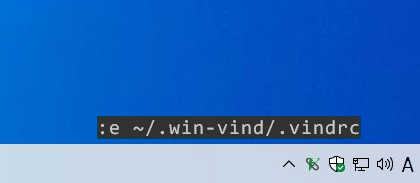
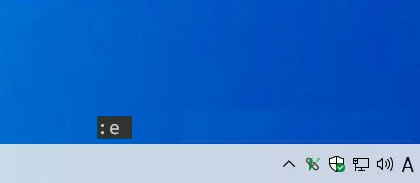
update document for v4.3.0

Changed region(s): [[0.3095, 0.6284, 0.8667, 0.765]]

diff --git a/docs/ja/usage/index.md b/docs/ja/usage/index.md
@@ -7,7 +7,7 @@ icon: map-signs
 translation: ja
 translators:
   - pit-ray
-version: 4.2.1
+version: 4.3.0
 disable_anchors: true
 ---
 
@@ -90,9 +90,9 @@ disable_anchors: true
 |`set {option}`|オプションの値を**true**にします。|
 |`set no{option}`|オプションの値を**false**にします。|
 |`set {option} = {val}`|オプションのパラメータを設定します。値には文字列か浮動小数点を含む数値です。文字列には引用符は不要で、空白以外の文字以降が値として扱われます。ちなみに等号の両端の空白は無視されます。|
-|`{mode}map {in-key} {out-key}`|低レベルなkey2keyマッピングを行います。定義された低レベルマップは、win-vindだけでなく、Windows全体に影響を与えます。|
+|`{mode}map {in-key} {out-key}`|低レベルなcmd2cmdマッピングを行います。定義された低レベルマップは、実際にWindowsにキーストロークとして伝わります。key2keyset形式に限り、遅延なしにキーの状態を同期することができます。|
 |`{mode}noremap {in-cmd} {func-id}`|ファンクションを呼び出すためのマッピングを定義します。|
-|`{mode}noremap {in-keyset} {out-keyset}`|win-vindのスコープでkeyset2keysetのマッピングを行います。ただし、`{func-id}`を利用した構文のほうが優先度が高いため、正確には1段階の再帰的なマッピングが生じる可能性があります。|
+|`{mode}noremap {in-keyset} {out-keyset}`|win-vindのスコープでcmd2cmdのマッピングを行います。ただし、`{func-id}`を利用した構文のほうが優先度が高いため、正確には1段階の再帰的なマッピングが生じる可能性があります。|
 |`{mode}unmap {in-cmd}`|`{in-cmd}`に割り当てられたマップを削除します。|
 |`{mode}mapclear`|すべてのマップを削除します。|
 |`command {in-cmd} {func-id}`|ファンクションを呼び出すためのコマンドを定義します。`{in-cmd}`に`:`は不要です。|
@@ -111,7 +111,7 @@ disable_anchors: true
    <img src="{{ site.url }}/imgs/instant_gui_normal_mode.jpg" width=450 >  
    <p align="center">Instant GUI Normal Demo</p>
    </p>
-1. `:e ~/.win-vind/.vindrc`で`.vindrc`を開きます。
+1. `:e`で`.vindrc`を開きます。
    <p align="center">
    <img src="{{ site.url }}/imgs/edit_vindrc_demo.jpg" width=450 >  
    <p align="center">:e Demo</p>
@@ -121,13 +121,16 @@ disable_anchors: true
    set cmd_fontname = Times New Roman
    imap <Capslock> <ctrl>
    inoremap <Alt> easy_click_left
+   imap <ctrl-a> Vim is the best editor.
+   gnnoremap <ctrl-1> :!notepad<cr>
    ```
 1. 次のように`:source`コマンドを実行すると`.vindrc`が読み込まれます。引数は不要です。
    <p align="center">
    <img src="{{ site.url }}/imgs/source_demo.jpg" width=450 >  
    <p align="center">:source Demo</p>
    </p>
-1. **Insertモード**では、Ctrlの代わりにCapslockを利用でき、Altキー一つで**EasyClick**を起動できるようになります。
+1. **Insertモード**では、Ctrlの代わりにCapslockを利用でき、Altキー一つで**EasyClick**を起動できるようになります。また、CtrlとAを同時に押すと、定型文を挿入できます。**GUI Normal**モードでは、Ctrlと1を同時に押すと、メモ帳が開くようになります。
+
 
 <br>
 <br>

diff --git a/docs/usage/index.md b/docs/usage/index.md
@@ -89,9 +89,9 @@ The following commands are supported. By the way, `{` and `}` themselves are not
 |`set {option}`|Set the value of the option to **true**.|
 |`set no{option}`|Set the value of the option to **false**.|
 |`set {option} = {val}`|Set a value of the option. The value can be a string or a number that allows floating points. The string does not need quotation marks, and any character after the non-white character will be handled as the value. White spaces at both ends of the equals sign are ignored.|
-|`{mode}map {in-key} {out-key}`|It performs **key2key** mapping with low-level. The keymap influences Windows as a whole, not just the win-vind scope.|
+|`{mode}map {in-key} {out-key}`|It performs **cmd2cmd** mapping with low-level. The defined low-level map is actually propagated to Windows as keystroke. By the way, only the key2keyset format can synchronize the key state without delay.|
 |`{mode}noremap {in-cmd} {func-id}`|It defines the map to call the function.|
-|`{mode}noremap {in-keyset} {out-keyset}`|It performs **keyset2keyset** mapping in win-vind scope. However, since the `{func-id}` definition has higher priority than its syntax, it may result in exactly one level of recursive mapping.|
+|`{mode}noremap {in-keyset} {out-keyset}`|It performs **cmd2cmd** mapping in win-vind scope. However, since the `{func-id}` definition has higher priority than its syntax, it may result in exactly one level of recursive mapping.|
 |`{mode}unmap {in-cmd}`|Remove the map corresponding to the `{in-cmd}`.|
 |`{mode}mapclear`|Delete all maps.|
 |`command {in-cmd} {func-id}`|It defines the command to call the function.|
@@ -110,7 +110,7 @@ Let's do the last tutorial!
    <img src="{{ site.url }}/imgs/instant_gui_normal_mode.jpg" width=450 >  
    <p align="center">Instant GUI Normal Demo</p>
    </p>
-1. Open your `.vindrc` with `:e ~/.win-vind/.vindrc`.  
+1. Open your `.vindrc` with `:e`.
    <p align="center">
    <img src="{{ site.url }}/imgs/edit_vindrc_demo.jpg" width=450 >  
    <p align="center">Edit .vindrc Demo</p>
@@ -120,13 +120,15 @@ Let's do the last tutorial!
    set cmd_fontname = Times New Roman
    imap <Capslock> <ctrl>
    inoremap <Alt> easy_click_left
+   imap <ctrl-a> Vim is the best editor.
+   gnnoremap <ctrl-1> :!notepad<cr>
    ```
 1. If you done, try reloading `.vindrc` with `:source` of win-vind. (No arguments are needed.)
    <p align="center">
    <img src="{{ site.url }}/imgs/source_demo.jpg" width=450 >  
    <p align="center">Reload Demo</p>
    </p>
-1. In **Insert Mode**, you can use `<Capslock>` instead of `<Ctrl>` and call EasyClick with a single `<Alt>`.
+1. In **Insert Mode**, you can use `<Capslock>` instead of `<Ctrl>` and call EasyClick with a single `<Alt>`. And, you can insert a fixed form text with pressing Ctrl and A at the same time. **In GUI Normal Mode**, pressing Ctrl and 1 at the same time will open Notepad.
 
 <br>
 <br>

diff --git a/docs/ja/cheat_sheet/functions/index.md b/docs/ja/cheat_sheet/functions/index.md
@@ -7,7 +7,7 @@ disable_anchors: true
 translation: ja
 translators:
   - pit-ray
-version: 4.2.1
+version: 4.3.0
 ---
 
 ### モード
@@ -136,13 +136,13 @@ version: 4.2.1
 
 |ID|機能|
 |:---:|:---|
-|**makedir**|`:mkdir foo`のように相対パスで呼び出すと、選択しているエクスプローラのディレクトリに`foo`ディレクトリを作成します。エクスプローラが見つからない場合には、`~/Desktop/foo`に作成されます。また、`:mkdir C:/Users/You/Desktop/bar`のように絶対パスで呼び出すと、パスに沿ってディレクトリが作成されますが、再帰的には生成されません。|
+|**makedir**|`:mkdir foo`のように相対パスで呼び出すと、選択しているエクスプローラのディレクトリに`foo`ディレクトリを作成します。エクスプローラが見つからない場合には、`~/Desktop/foo`に作成されます。また、`:mkdir C:/Users/You/Desktop/bar`のように絶対パスで呼び出すと、パスに沿ってディレクトリが再帰的に作成されます。|
 
 ### プロセス
 
 |ID|機能|
 |:---:|:---|
-|**execute**|関連付けられたアプリケーションでファイルを開きます。これは、有名なWindows APIである**ShellExecute**のラッパで、エクスプローラでダブルクリックしたのと同じふるまいをします。そのため、任意の形式ののファイルやURLを開くことができます。例えば、`:e ~/.vimrc`や`:e https://www.google.com`などのように使います。|
+|**execute**|関連付けられたアプリケーションでファイルを開きます。これは、有名なWindows APIである**ShellExecute**のラッパで、エクスプローラでダブルクリックしたのと同じふるまいをします。そのため、任意の形式ののファイルやURLを開くことができます。例えば、`:e ~/.vimrc`や`:e https://www.google.com`などのように使います。引数が与えられなかった場合には、初期化時に読み込んだ.vindrcを開きます。|
 |**exit_config_gui**|win-vindを終了する|
 |**start_external**|外部アプリケーションを起動します。環境変数は、`shell`オプションで指定したアプリケーションに依存します。最後に`;`をつけることで、コンソールウィンドウをすぐに閉じないようにします。エクスプローラのウィンドウを選択している場合には、そのディレクトリが現在ディレクトリになります。|
 |**start_shell**|ターミナルを起動します。エクスプローラのウィンドウを選択している場合には、そのディレクトリが現在ディレクトリになります。|

diff --git a/src/README.md b/src/README.md
@@ -7,7 +7,9 @@ This document describes the high-layer architecture of win-vind.
 
 <img src="docs/image/keymatch_overview.png">
 
-win-vind hocks the function to capture input messages at low-level events on the operating system. This function is managed by KeyAbsorber. It switches between absorbing a key message and passing it on to other applications.  
+win-vind hocks a function that captures messages for low-level key events on the OS. To mediate input and output between the OS and win-vind, The singleton InputGate is in charge of this. cmd2cmd mapping by noremap or map is reflected in the key state record provided by InputGate.
+
+<img src="docs/image/inputgate_overview.png" >
 
 The captured inputs are converted into a convenient sequence of keycodes by KeyLogger. Currently, CharLogger and NTypeLogger are typical key loggers. CharLogger logs like general textual inputs, while NTypeLogger parses head numbers (e.g. `2gg`, `3h`) and logs raw keycodes by its automaton.  
 
@@ -31,9 +33,7 @@ By the way, the state transition diagrams of the automaton described here are as
 # Data Formats and its Managers
 ## FuncFinder
 
-<img src="docs/image/func_finder.png" >
-
-FuncFinder is used to select a function that matches the key sequence of the keylogger.  It has an internal array of modes, each of which holds pointers to the LoggerParser of valid functions.  Since LoggerParser is an automaton as described above, it transitions the state of all LoggerParser in the current mode when matching.
+FuncFinder is used to select a function that matches the key sequence of the keylogger.  It has an internal array of modes, each of which holds pointers to the LoggerParser of valid functions.  
 
 And the mode array in FuncFinder is reconstructed each time the settings are loaded for example by Apply button.
 
@@ -98,11 +98,6 @@ namespace vind
 #### CommandList  
 
 <img src="docs/image/parse_overview.png">  
-
-CommandList is keycode arrays generated from the settings file.  It is generated for each mode of the function, but is shared among modes in a syntax like `"edin": ["<guin>"]` .  
-
-<img src="docs/image/global_parsed_bindings_lists.png">
-
 
 
 # Authors

diff --git a/docs/cheat_sheet/functions/index.md b/docs/cheat_sheet/functions/index.md
@@ -132,13 +132,13 @@ disable_anchors: true
 
 |ID|Feature|
 |:---:|:---|
-|**makedir**|Create a directory. If you call it with a relative path such as `:mkdir foo`, it creates it in the explorer directory. If no explorer is found, it creates it in `~/Desktop/foo`. If you call it with an absolute path like `:mkdir C:/Users/You/Desktop/bar`, it will create a directory along the path, but not recursively.|
+|**makedir**|Create a directory. If you call it with a relative path such as `:mkdir foo`, it creates it in the explorer directory. If no explorer is found, it creates it in `~/Desktop/foo`. If you call it with an absolute path like `:mkdir C:/Users/You/Desktop/bar`, it will create a directory along the path recursively.|
 
 ### Process
 
 |ID|Feature|
 |:---:|:---|
-|**execute**|Open file with the associated application. This is a wrapper for the famous Windows API, **ShellExecute**, which behaves the same as double-clicking in Explorer. Therefore, you can open any format files and URLs. For example, `:e ~/.vimrc` or `:e https://www.google.com`.|
+|**execute**|Open file with the associated application. This is a wrapper for the famous Windows API, **ShellExecute**, which behaves the same as double-clicking in Explorer. Therefore, you can open any format files and URLs. For example, `:e ~/.vimrc` or `:e https://www.google.com`. If there is no argument, it will open .vindrc loaded at initialization.|
 |**exit_config_gui**|Exit win-vind|
 |**start_external**|Start an external application. This environment variable is dependent on the application specified in the `shell` option. By appending `;` at the end, it keeps the console window without closing immediately. If the explorer is the foreground window, the current directory of a terminal will be that directory.|
 |**start_shell**|Start a terminal. If the explorer is the foreground window, the current directory of a terminal will be that directory.|

diff --git a/docs/ja/cheat_sheet/options/index.md b/docs/ja/cheat_sheet/options/index.md
@@ -6,7 +6,7 @@ disable_anchors: true
 translation: ja
 translators:
   - pit-ray
-version: 4.2.1
+version: 4.3.0
 show_in_menu: false
 ---
 
@@ -32,7 +32,7 @@ show_in_menu: false
 |`cmd_maxhist`|num|10|仮想コマンドラインで保持する履歴の最大数。|
 |`cmd_roughpos`|str|LowerMid|仮想コマンドラインの大まかな位置。`UpperLeft`, `UpperMid`, `UpperRight`, `MidLeft`, `Center`, `MidRight`, `LowerLeft`, `LowerMid`, `LowerRight`のうちのどれかを指定してください。|
 |`cmd_xmargin`|num|32|`cmd_roughpos`で大まかな位置を決め、ピクセル単位で水平方向の微調整を行います。|
-|`cmd_ymargin`|num|64|`cmd_roughpos`で大まかな位置を決め、ピクセル単位で垂直方向の微調整を行います。|
+|`cmd_ymargin`|num|96|`cmd_roughpos`で大まかな位置を決め、ピクセル単位で垂直方向の微調整を行います。|
 |`cursor_accel`|num|95|マウスカーソルの等加速度運動におけるピクセルレベルの加速度。|
 |`cursor_maxv`|num|12|マウスカーソルの最大速度。|
 |`cursor_tweight`|num|250|マウスカーソルの等加速度運動における時間のスケーリング値。|

diff --git a/README.md b/README.md
@@ -65,12 +65,12 @@ $ winget install win-vind
 ```
 
 ### Installer Version
-- [win-vind_4.2.1_32bit_installer.zip](https://github.com/pit-ray/win-vind/releases/download/v4.2.1/win-vind_4.2.1_32bit_installer.zip)
-- [win-vind_4.2.1_64bit_installer.zip](https://github.com/pit-ray/win-vind/releases/download/v4.2.1/win-vind_4.2.1_64bit_installer.zip)
+- [win-vind_4.3.0_32bit_installer.zip](https://github.com/pit-ray/win-vind/releases/download/v4.3.0/win-vind_4.3.0_32bit_installer.zip)
+- [win-vind_4.3.0_64bit_installer.zip](https://github.com/pit-ray/win-vind/releases/download/v4.3.0/win-vind_4.3.0_64bit_installer.zip)
 
 ### Portable Version
-- [win-vind_4.2.1_32bit_portable.zip](https://github.com/pit-ray/win-vind/releases/download/v4.2.1/win-vind_4.2.1_32bit_portable.zip)
-- [win-vind_4.2.1_64bit_portable.zip](https://github.com/pit-ray/win-vind/releases/download/v4.2.1/win-vind_4.2.1_64bit_portable.zip)
+- [win-vind_4.3.0_32bit_portable.zip](https://github.com/pit-ray/win-vind/releases/download/v4.3.0/win-vind_4.3.0_32bit_portable.zip)
+- [win-vind_4.3.0_64bit_portable.zip](https://github.com/pit-ray/win-vind/releases/download/v4.3.0/win-vind_4.3.0_64bit_portable.zip)
 
 
 ## Usage

diff --git a/docs/cheat_sheet/options/index.md b/docs/cheat_sheet/options/index.md
@@ -28,7 +28,7 @@ show_in_menu: false
 |`cmd_maxhist`|num|10|Maximum number of histories in the virtual command line.|
 |`cmd_roughpos`|str|LowerMid|Rough position of virtual command line. The choices are `UpperLeft`, `UpperMid`, `UpperRight`, `MidLeft`, `Center`, `MidRight`, `LowerLeft`, `LowerMid`, or `LowerRight`.|
 |`cmd_xmargin`|num|32|Use `cmd_roughpos` to determine the rough position, and `cmd_xmargin` to determine the detailed horizontal position. The units are in pixels.|
-|`cmd_ymargin`|num|64|Use `cmd_roughpos` to determine the rough position, and `cmd_ymargin` to determine the detailed vertical position. The units are in pixels.|
+|`cmd_ymargin`|num|96|Use `cmd_roughpos` to determine the rough position, and `cmd_ymargin` to determine the detailed vertical position. The units are in pixels.|
 |`cursor_accel`|num|95|Pixel-level acceleration in the constatnt acceleration motion of the mouse cursor.|
 |`cursor_maxv`|num|12|Maximum velocity of the mouse cursor|
 |`cursor_tweight`|num|250|A weight for scaling the time of constant acceleration motion of the mouse cursor.|

diff --git a/docs/ja/index.md b/docs/ja/index.md
@@ -9,7 +9,7 @@ icon: home
 translation: ja
 translators:
   - pit-ray
-version: 4.2.1
+version: 4.3.0
 description: Vim Key Binder for Windows
 ---
 
@@ -77,6 +77,10 @@ inoremap <f17> easy_click_left
 
 imap <app> <f18>
 inoremap <f18> window_resizer
+
+" Define keystroke macros
+gnnoremap <ctrl-1> :!notepad<cr>
+gnnoremap <ctrl-2> :e https://www.google.com<cr>
 ```
 
 ## ライセンス

diff --git a/docs/index.md b/docs/index.md
@@ -72,6 +72,10 @@ inoremap <f17> easy_click_left
 
 imap <app> <f18>
 inoremap <f18> window_resizer
+
+" Define keystroke macros
+gnnoremap <ctrl-1> :!notepad<cr>
+gnnoremap <ctrl-2> :e https://www.google.com<cr>
 ```
 
 ## License

diff --git a/docs/ja/cheat_sheet/defaults/index.md b/docs/ja/cheat_sheet/defaults/index.md
@@ -6,7 +6,7 @@ title: デフォルトのマッピング - win-vind
 translation: ja
 translators:
   - pit-ray
-version: 4.2.1
+version: 4.3.0
 nav: デフォルトのマッピング
 ---
 

diff --git a/docs/ja/cheat_sheet/keywords/index.md b/docs/ja/cheat_sheet/keywords/index.md
@@ -6,7 +6,7 @@ show_in_menu: false
 translation: ja
 translators:
   - pit-ray
-version: 4.2.1
+version: 4.3.0
 disable_anchors: true
 ---
 
